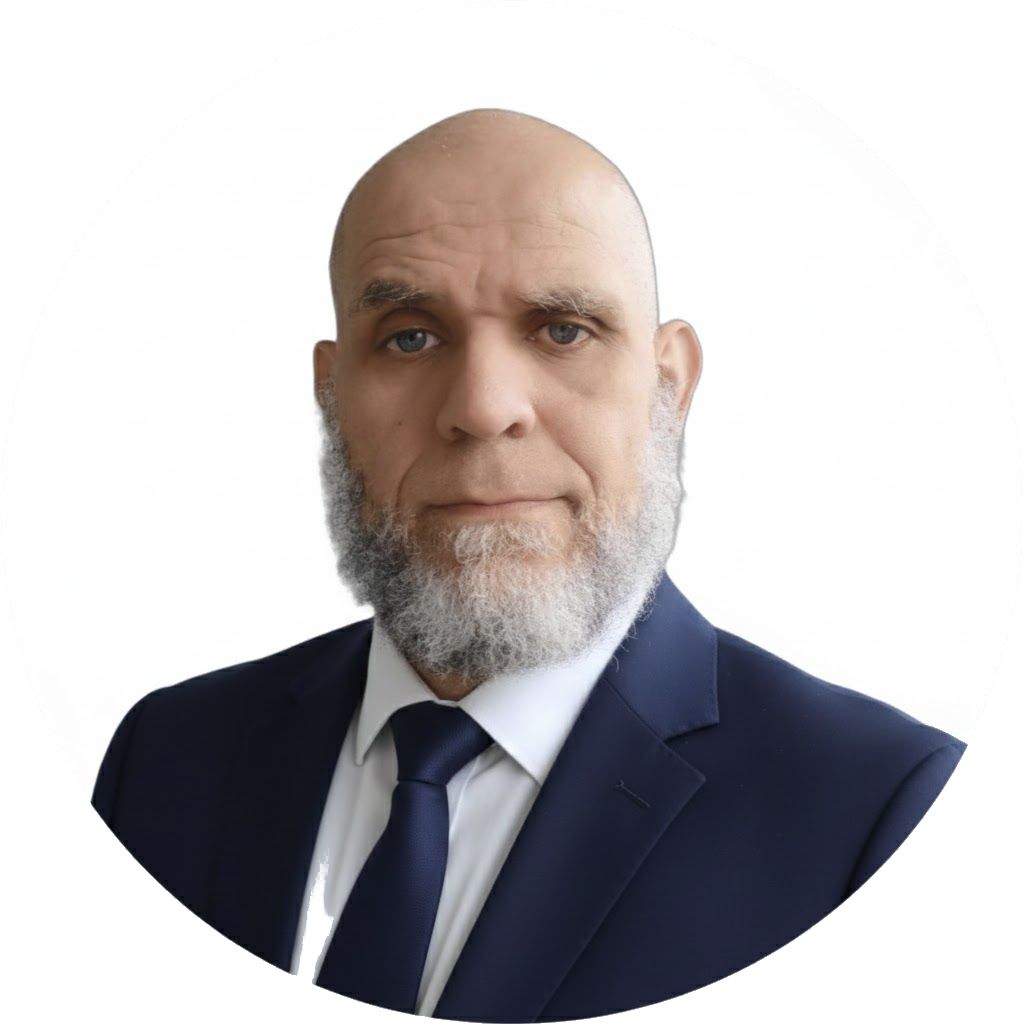
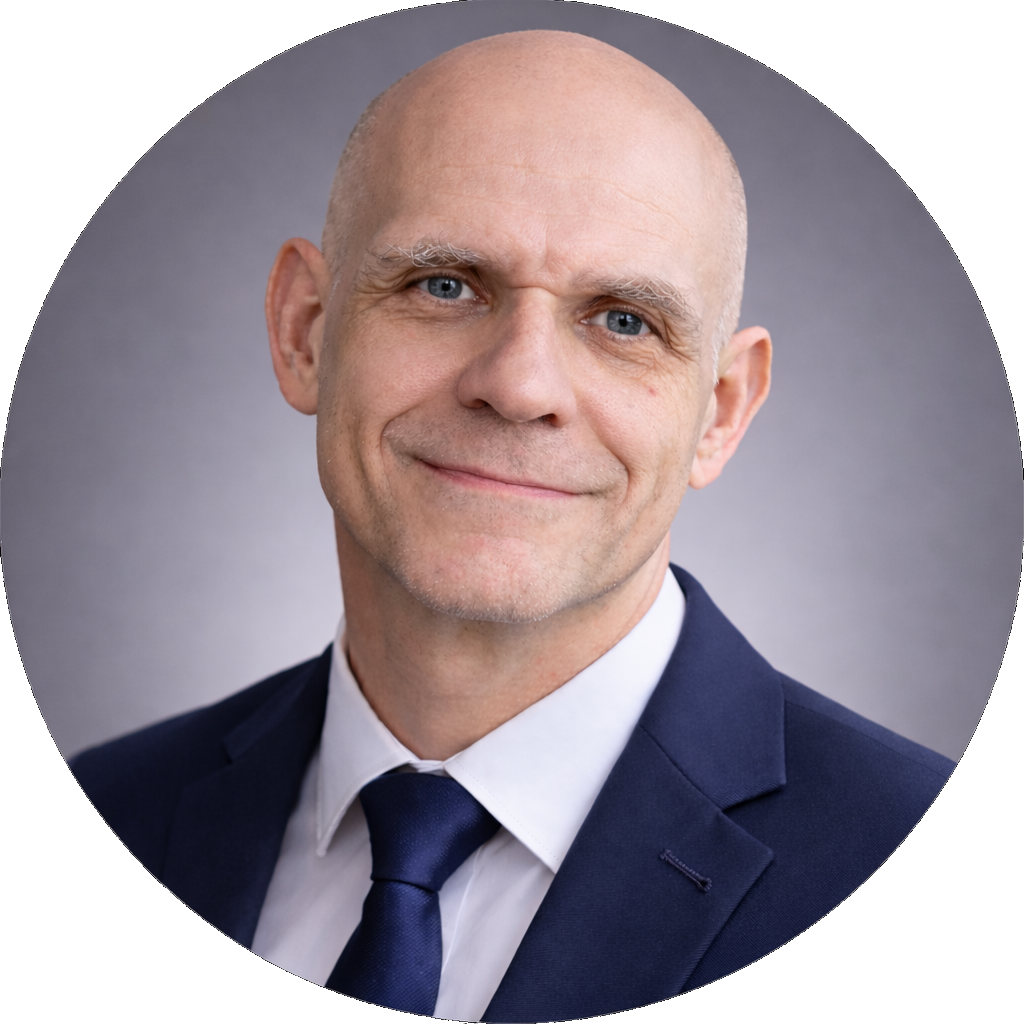
LPPP Infopro en vedette + photo profil + texte vision business / technique
- Landing LPPP Infopro : 1ère position, badge Vitrine démarche, style mis en avant
- Résumé chaîne complète : audit terrain → livrables → landing JSON → export Django → Vercel
- Impact : Vision business + savoir-faire technique (FR/EN)
- Photo de profil remplacée par portraitPro_vignette

Made-with: Cursor

diff --git a/public/assets/js/projects.js b/public/assets/js/projects.js
@@ -48,12 +48,14 @@
       landingGrid.innerHTML = '';
       p.landingPages.forEach(function (lp, i) {
         var article = document.createElement('article');
-        article.className = 'card landing-page-card reveal';
+        article.className = 'card landing-page-card reveal' + (lp.featured ? ' landing-page-card--featured' : '');
         article.setAttribute('data-reveal', '');
         article.style.setProperty('--d', (0.05 + i * 0.08) + 's');
         var techTags = (lp.tech || []).map(function (t) { return '<span class="tech-tag">' + escapeHtml(t) + '</span>'; }).join('');
+        var badgeHtml = (lp.featured && lp.featuredLabel) ? '<span class="landing-page-featured-badge">' + escapeHtml(lp.featuredLabel) + '</span>' : '';
         article.innerHTML =
           '<div class="landing-page-card-header">' +
+            badgeHtml +
             '<h3>' + escapeHtml(lp.title) + '</h3>' +
             '<span class="landing-page-sector">' + escapeHtml(lp.sector) + '</span>' +
           '</div>' +

diff --git a/public/assets/css/styles.css b/public/assets/css/styles.css
@@ -1434,6 +1434,30 @@ input:focus,textarea:focus{border-color:var(--accent)}
   margin: 0;
 }
 
+/* Landing mise en avant (ex. LPPP Infopro — vitrine démarche) */
+.landing-page-card--featured {
+  border-color: var(--accent);
+  box-shadow: 0 0 0 1px var(--accent), 0 12px 32px rgba(0, 225, 255, 0.12);
+}
+
+.landing-page-card--featured:hover {
+  box-shadow: 0 0 0 1px var(--accent), 0 20px 48px rgba(0, 225, 255, 0.18);
+}
+
+.landing-page-featured-badge {
+  display: inline-block;
+  font-size: 11px;
+  font-weight: 700;
+  text-transform: uppercase;
+  letter-spacing: 0.6px;
+  color: var(--accent);
+  background: rgba(0, 225, 255, 0.12);
+  padding: 4px 10px;
+  border-radius: 6px;
+  margin-bottom: 8px;
+  width: fit-content;
+}
+
 @media (max-width: 768px) {
   .landing-pages-grid {
     grid-template-columns: 1fr;
